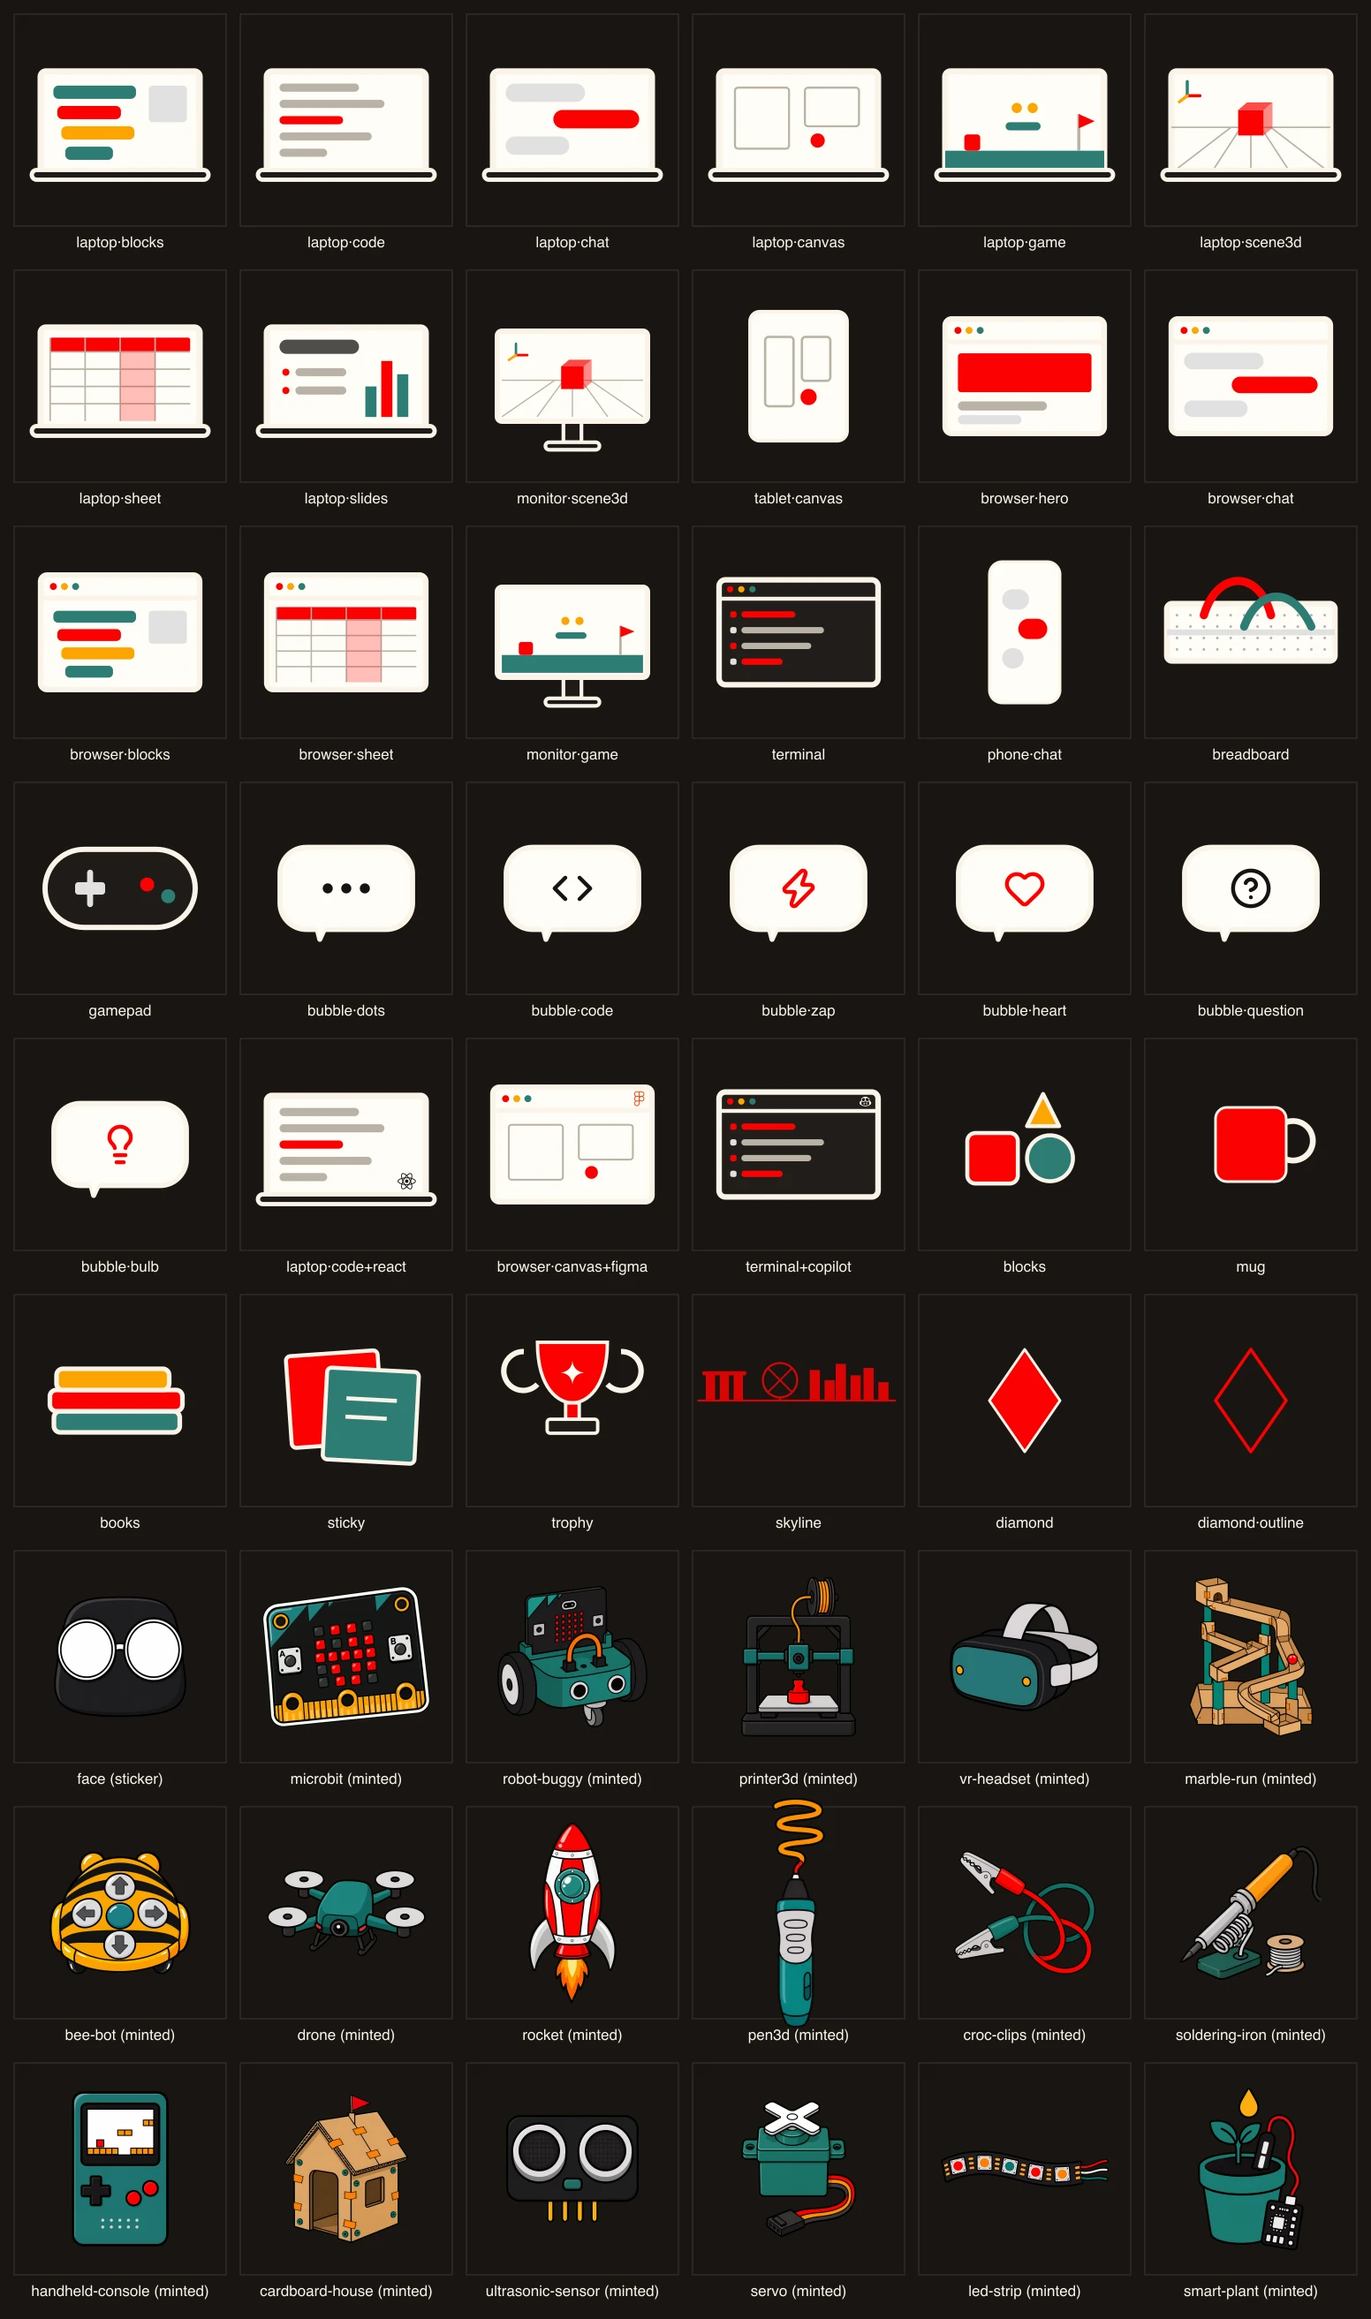
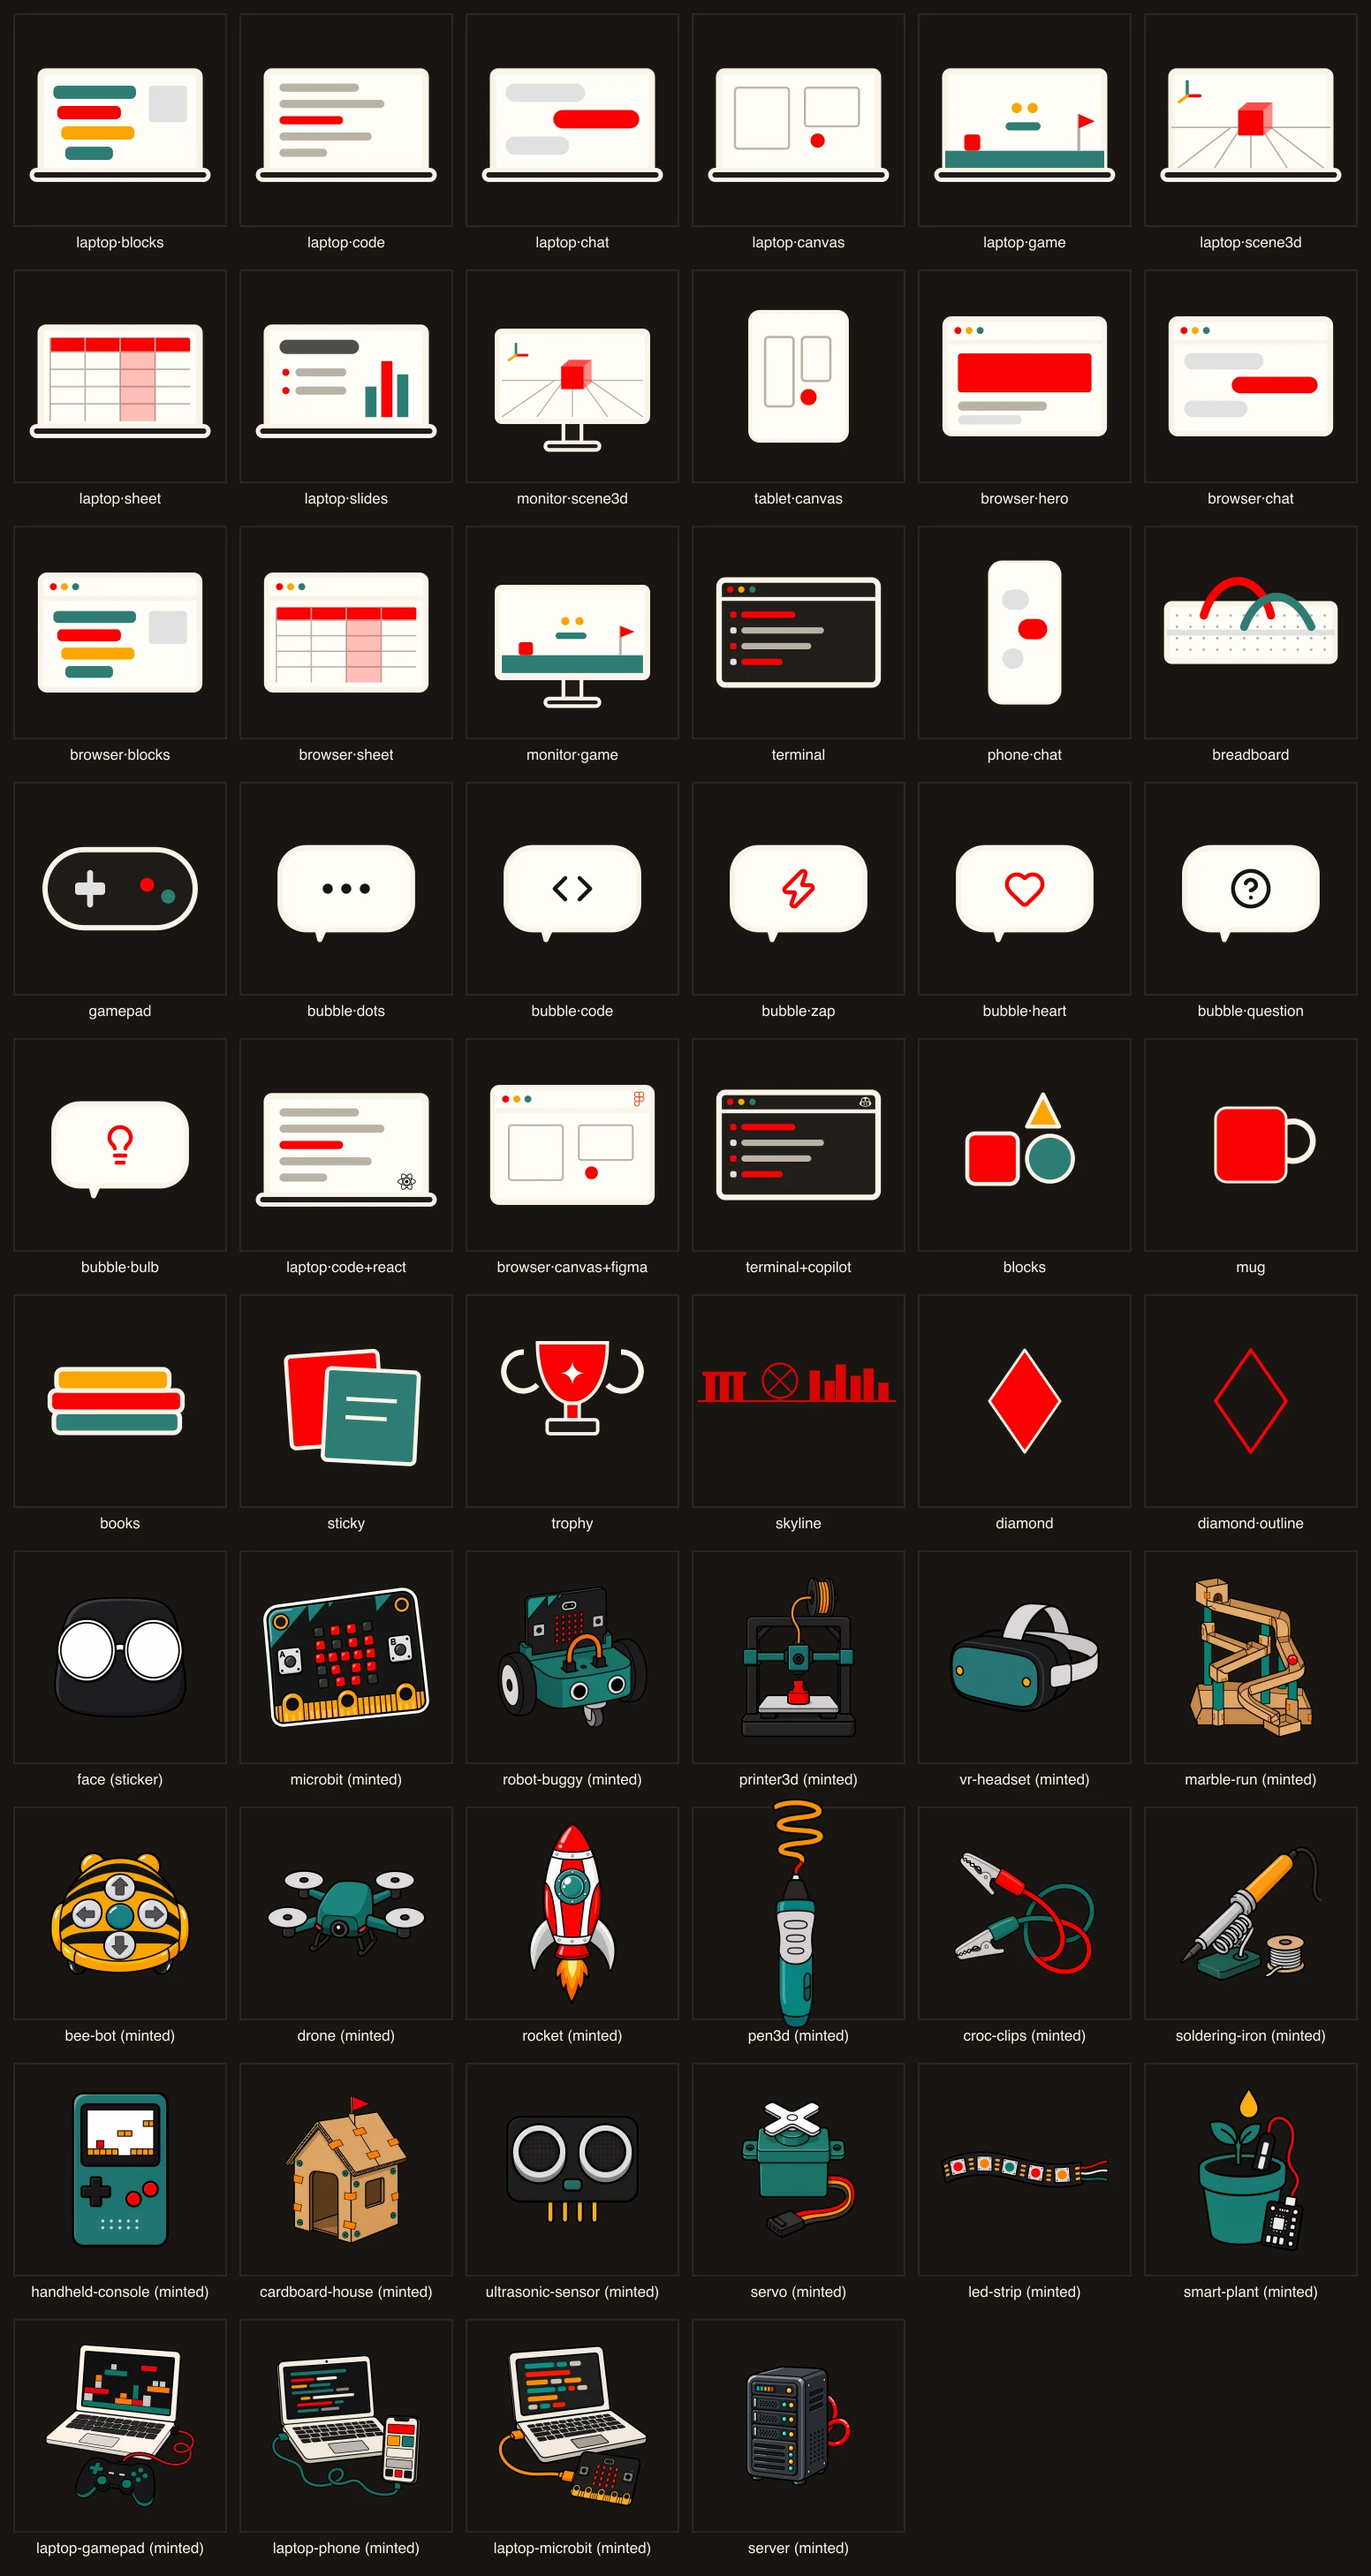
Mint software-workflow sticker props: connected laptop setups and server
Per design review the library skewed hardware; adds four
software-story composites minted via codex imagegen: laptop-gamepad
(playtesting), laptop-phone (mobile dev mirroring), laptop-microbit
(USB flashing), and a mini server tower for web/backend tracks. Screens
show abstract colour bars only.

Claude-Session: https://claude.ai/code/session_0179E3eAQXJ3uzsNQh5mBGxN

diff --git a/reference/stickers/props/README.md b/reference/stickers/props/README.md
@@ -26,9 +26,13 @@ new files.
 | `servo` | Mini hobby servo with cross horn and ribbon wires (Tinker Kit) |
 | `led-strip` | Addressable LED strip segment, lit (Tinker Kit / smart kits) |
 | `smart-plant` | Potted seedling with soil-moisture sensor (ElecFreaks Smart Agriculture) |
+| `laptop-gamepad` | Laptop wired to a game controller — playtesting (game dev tracks) |
+| `laptop-phone` | Laptop wired to a phone mirroring the app (mobile dev tracks) |
+| `laptop-microbit` | Laptop flashing a micro:bit over USB (physical computing) |
+| `server` | Mini server tower with indicator lights (web/backend tracks) |
 
 Round-2 subjects were derived from the TT Curriculum drive (Bee-Bot, Tello
 drones, Space Camp, 3D Pen Art, High Tech Maker, Makedo, MakeCode Arcade).
-Round-3 subjects came from gethacking.com stock (ElecFreaks smart kits, Tinker Kit). Shortlist for the next round: battery-pack, robot arm (RPA),
+Round-4 added connected software setups (laptop+device composites, server). Round-3 subjects came from gethacking.com stock (ElecFreaks smart kits, Tinker Kit). Shortlist for the next round: battery-pack, robot arm (RPA),
 KTANE-style defusal box (Digital Making), blockchain cubes, sensor modules.
 Process a new batch with `python3 scripts/banner/process-mint.py <dir> <names>`.
